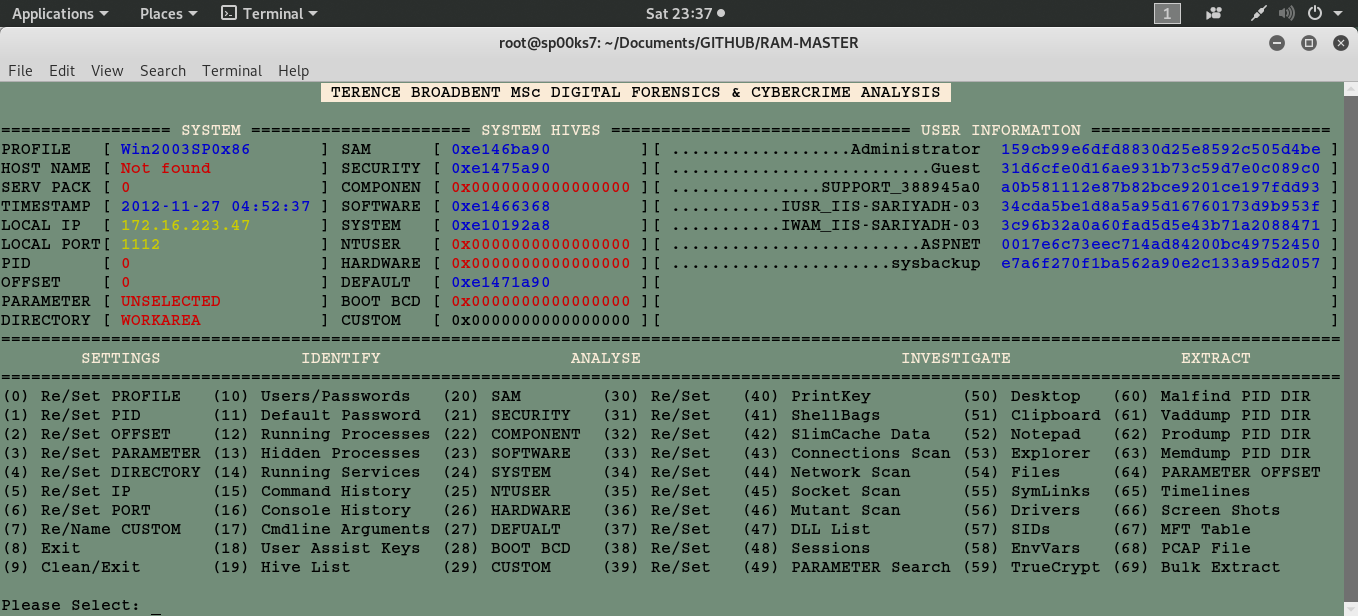
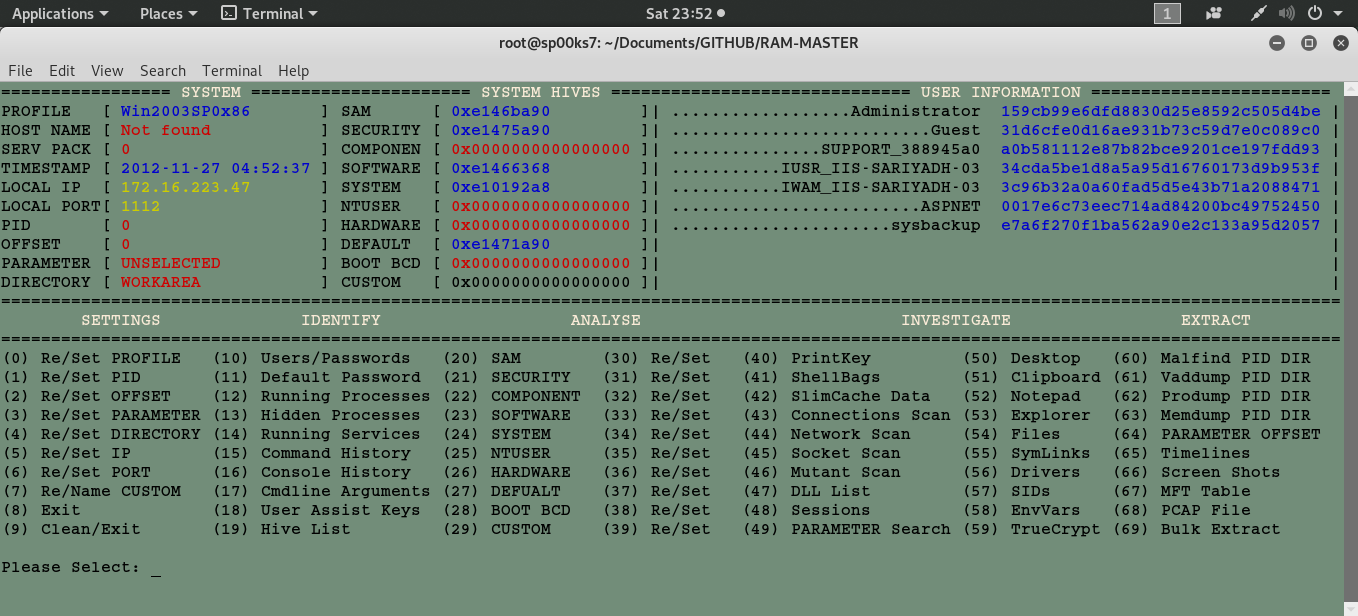
changes

Changed region(s): [[0.0, 0.1234, 0.9897, 0.5244], [0.0, 0.5552, 0.9897, 0.9253], [0.0, 0.9562, 0.0928, 1.0]]

diff --git a/RamMaster.py b/RamMaster.py
@@ -308,7 +308,7 @@ os.remove('conn1.txt')
 def Display():
 # -------------------------------------------------------------------------------------
    
-   print colored("\t\t\t\t TERENCE BROADBENT MSc DIGITAL FORENSICS & CYBERCRIME ANALYSIS \n", 'grey', 'on_white')
+   #print colored("\t\t\t\t TERENCE BROADBENT MSc DIGITAL FORENSICS & CYBERCRIME ANALYSIS \n", 'grey', 'on_white')
    print "="*17,
    print colored("SYSTEM",'white'),
    print "="*22	,
@@ -331,11 +331,11 @@ def Display():
       print colored(SAM,'red'),
    else:
       print colored(SAM,'blue'),
-   print "][",
+   print "]|",
 
    print US[0] + "",
    print colored(PA[0],'blue'),
-   print "]"
+   print "|"
 
 # -------------------------------------------------------------------------------------
 
@@ -351,10 +351,10 @@ def Display():
       print colored(SEC,'red'),
    else:
       print colored(SEC,'blue'),
-   print "][",
+   print "]|",
    print US[1] + "",
    print colored(PA[1],'blue'),
-   print "]"
+   print "|"
 
 # -------------------------------------------------------------------------------------
 
@@ -368,11 +368,11 @@ def Display():
       print colored(COM,'red'),
    else:
       print colored(COM,'blue'),
-   print "][",
+   print "]|",
 
    print US[2] + "",
    print colored(PA[2],'blue'),
-   print "]"
+   print "|"
 
 # -------------------------------------------------------------------------------------
 
@@ -383,10 +383,10 @@ def Display():
       print colored(SOF,'red'),
    else:
       print colored(SOF,'blue'),
-   print "][",
+   print "]|",
    print US[3] + "",
    print colored(PA[3],'blue'),
-   print "]"
+   print "|"
 
 # ------------------------------------------------------------------------------------- 
 
@@ -406,10 +406,10 @@ def Display():
    else:
       print colored(SYS,'blue'),
    
-   print "][",
+   print "]|",
    print US[4] + "",
    print colored(PA[4],'blue'),
-   print "]"
+   print "|"
 
 # -------------------------------------------------------------------------------------
 
@@ -428,11 +428,11 @@ def Display():
       print colored(NTU,'red'),
    else:
       print colored(NTU,'blue'),
-   print "][",
+   print "]|",
 
    print US[5] + "",
    print colored(PA[5],'blue'),
-   print "]"
+   print "|"
 
 # ------------------------------------------------------------------------------------- 
 
@@ -448,11 +448,11 @@ def Display():
       print colored(HRD,'red'),
    else:
       print colored(HRD,'blue'),
-   print "][",
+   print "]|",
 
    print US[6] + "",
    print colored(PA[6],'blue'),
-   print "]"
+   print "|"
 
 # ------------------------------------------------------------------------------------- 
 
@@ -468,11 +468,11 @@ def Display():
       print colored(DEF,'red'),
    else:
       print colored(DEF,'blue'),
-   print "][",
+   print "]|",
 
    print US[7] + "",
    print colored(PA[7],'blue'),
-   print "]"
+   print "|"
 
 # -------------------------------------------------------------------------------------
 
@@ -488,11 +488,11 @@ def Display():
       print colored(BCD,'red'),
    else:
       print colored(BCD,'blue'),
-   print "][",
+   print "]|",
 
    print US[8] + "",
    print colored(PA[8],'blue'),
-   print "]"
+   print "|"
 
 # -------------------------------------------------------------------------------------
 
@@ -508,11 +508,11 @@ def Display():
       print colored(CUS,'grey'),
    else:
       print colored(CUS,'blue'),
-   print "][",
+   print "]|",
 
    print US[9] + "",
    print colored(PA[9],'blue'),
-   print "]"
+   print "|"
 
 #-------------------------------------------------------------------------------------
 

diff --git a/README.md b/README.md
@@ -5,7 +5,7 @@ Usage: python RamMaster dumpfile.mem
 
 | LANGUAGE  | FILENAME         | MD5 Hash                         |
 |------     |------            | -------                          |
-| python    | RamMaster.py     | a72b0227d913d90e39c13232a3fa82d8 |
+| python    | RamMaster.py     | 316261cf1682bc44d87304cafab6f329 |
 | text file | profiles.txt     | ba638a0a6f9d322100809bd6e67427d6 |
 | bash file | patch.sh         | 7a4231731982e09d9a703f7357170755 |
 
